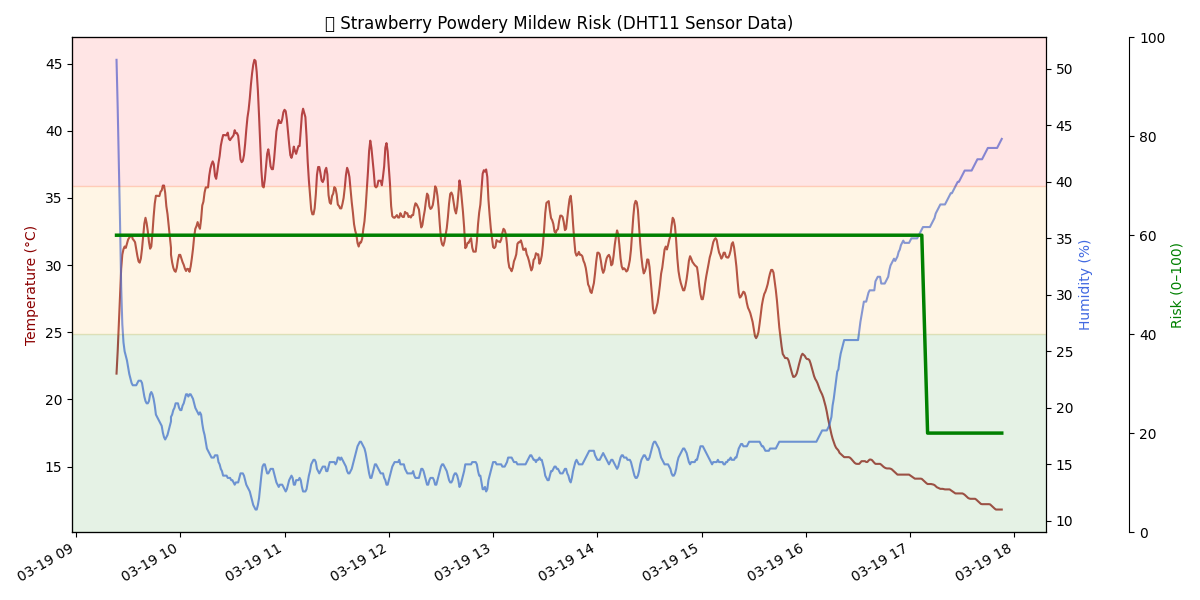
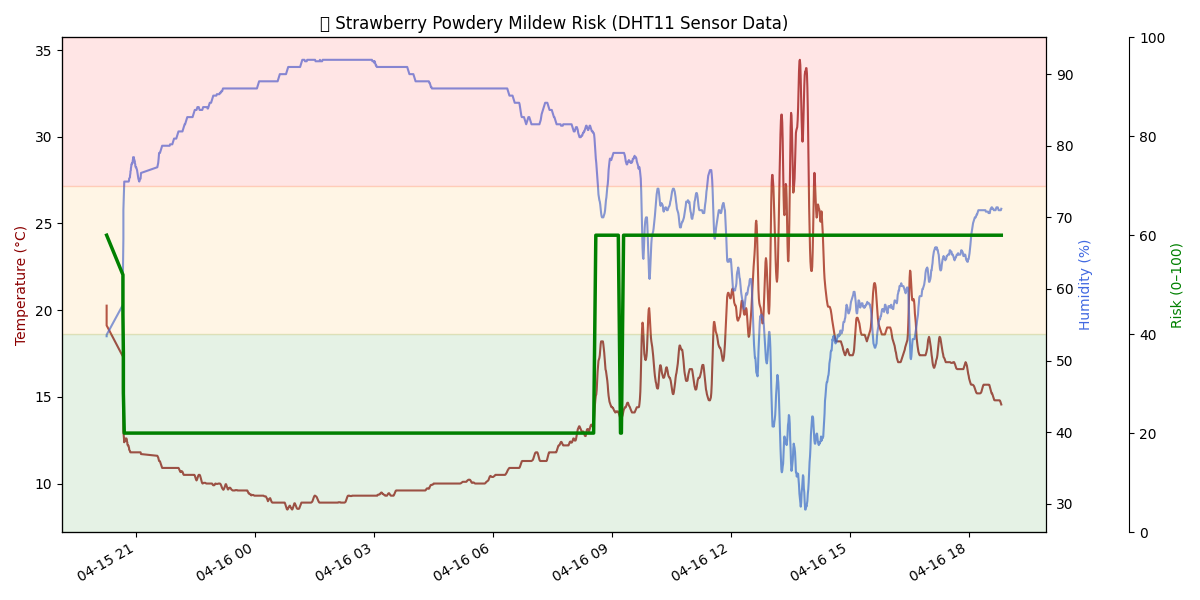
dew point calcualter using csv

diff --git a/dew point/dew_point.py b/dew point/dew_point.py
@@ -1,0 +1,75 @@
+import pandas as pd
+import matplotlib.pyplot as plt
+import matplotlib.dates as mdates
+import math
+
+df = pd.read_csv('/workspaces/projects/csv/DHT11_log.csv')
+
+df['Timestamp'] = pd.to_datetime(df['Timestamp'])
+df = df.sort_values('Timestamp')
+
+def dew_point(temp_c, humidity):
+    a = 17.27
+    b = 237.7
+    gamma = (a * temp_c) / (b + temp_c) + math.log(humidity / 100.0)
+    return (b * gamma) / (a - gamma)
+
+df['dew_point'] = df.apply(
+    lambda r: dew_point(r['avg_temp'], r['avg_humidity']),
+    axis=1
+)
+
+def mildew_risk(temp, humidity, dew_point):
+    risk = 0
+    if 60 <= humidity <= 90:
+        risk += 1
+    if humidity > 90:
+        risk += 2
+    if 15 <= temp <= 25:
+        risk += 1
+    if abs(temp - dew_point) < 2:
+        risk += 1
+    return min(risk, 3)
+
+df['mildew_risk'] = df.apply(
+    lambda r: mildew_risk(r['avg_temp'], r['avg_humidity'], r['dew_point']),
+    axis=1
+)
+
+
+
+fig, ax = plt.subplots()
+
+ax.plot(df['Timestamp'], df['avg_temp'], label='Temperature')
+ax.plot(df['Timestamp'], df['dew_point'], label='Dew Point')
+
+ax.set_xlabel('Time')
+ax.set_ylabel('°C')
+ax.set_title('Temperature, Dew Point & Mildew Risk')
+
+
+for i in range(len(df) - 1):
+    if df['mildew_risk'].iloc[i] == 0:
+        color = 'green'
+    elif df['mildew_risk'].iloc[i] == 1:
+        color = 'yellow'
+    elif df['mildew_risk'].iloc[i] == 2:
+        color = 'orange'
+    else:
+        color = 'red'
+
+    ax.axvspan(df['Timestamp'].iloc[i],
+               df['Timestamp'].iloc[i + 1],
+               color=color,
+               alpha=0.08)
+
+
+ax.xaxis.set_major_locator(mdates.HourLocator(interval=1))
+ax.xaxis.set_major_formatter(mdates.DateFormatter('%H:%M'))
+plt.xticks(rotation=45)
+
+ax.legend()
+plt.tight_layout()
+
+plt.savefig('dew_point_mildew_risk.png', dpi=300)
+plt.show()
